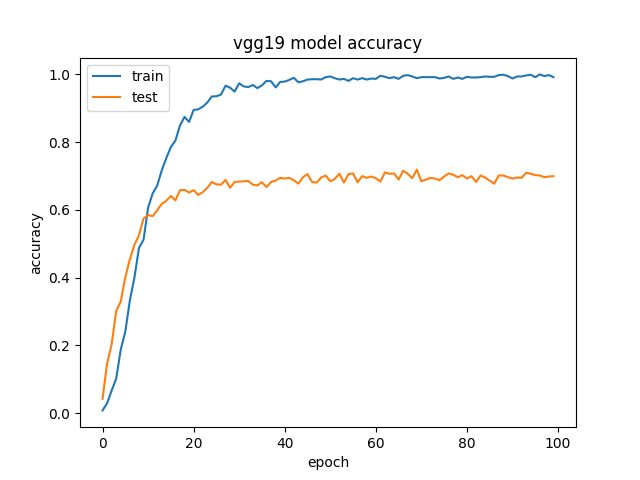
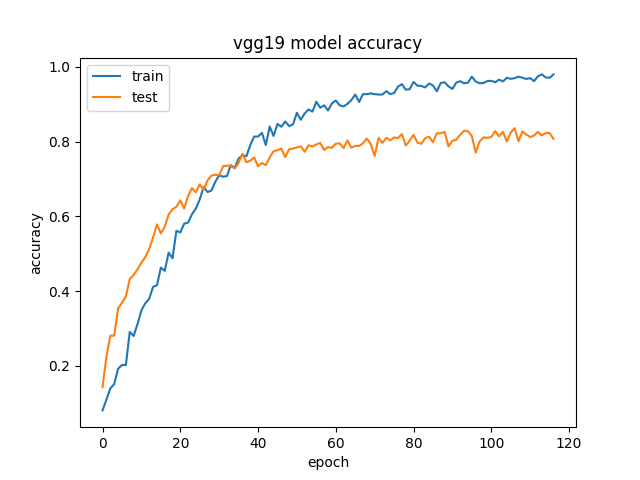
update results

diff --git a/README.md b/README.md
@@ -45,7 +45,7 @@ acc: 0.757
 
 ### VGG19
 Fine tune VGG19 with weights pretrained on imagenet.  
-acc: 0.734  
+acc: 0.781  
 <img src="./img/learning%20curves/vgg19_acc.png" width=400>
 <img src="./img/learning%20curves/vgg19_loss.png" width=400>
 
